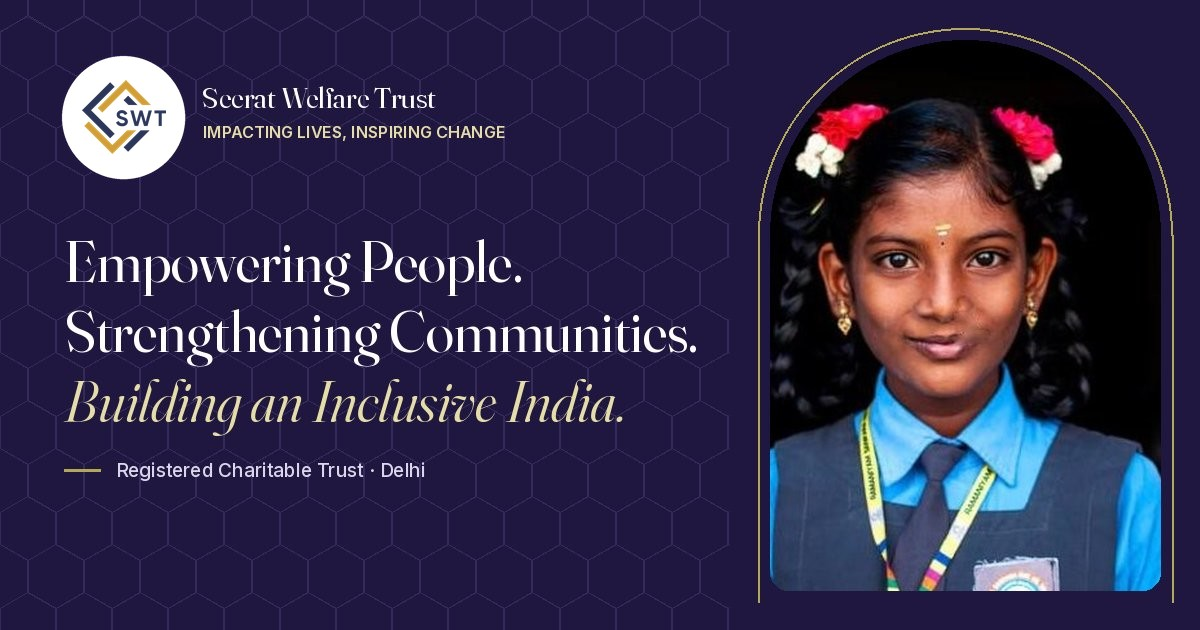
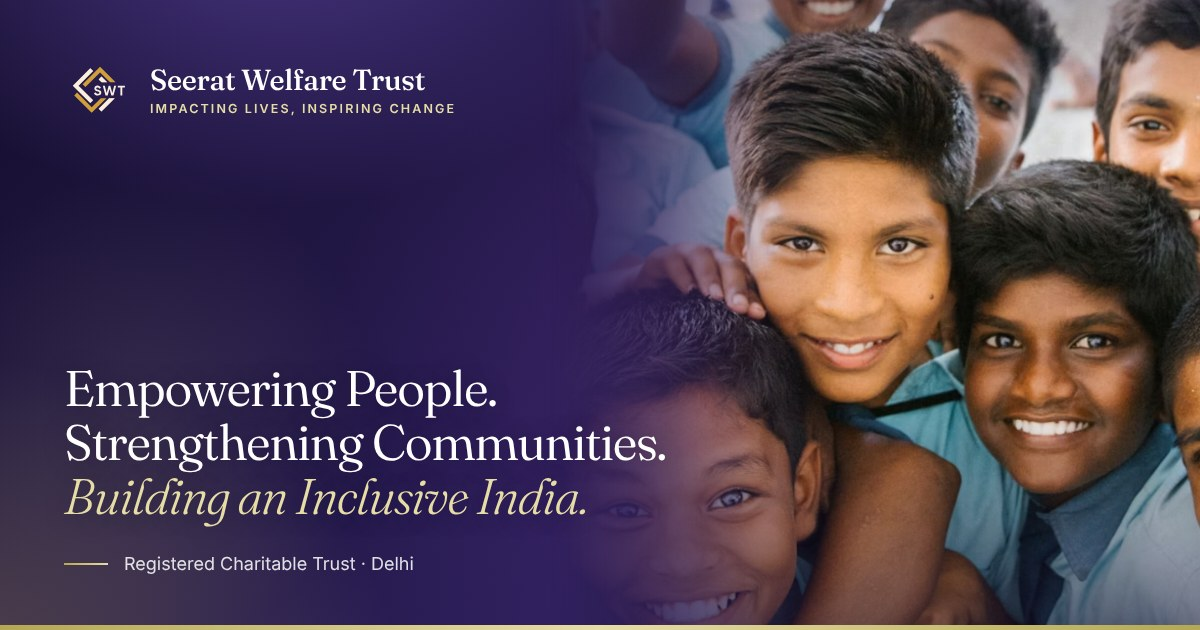
Redesign link-preview image with gradient background and students photo
New assets/og-image.jpg (1200x630): smooth layered indigo-violet gradient
with a soft gold glow, the homepage hero students photo blended in on the
right, new SWT logo, and the site headline. Bump the image URL version
so link-preview services fetch the new image.

Claude-Session: https://claude.ai/code/session_01VVF1uRwaVzpC7HF24bCT69

diff --git a/index.html b/index.html
@@ -12,7 +12,7 @@
 <meta property="og:title" content="Seerat Welfare Trust — Empowering People. Strengthening Communities.">
 <meta property="og:description" content="Seerat Welfare Trust is a registered charitable organisation in Delhi, advancing inclusive and sustainable community development.">
 <meta property="og:url" content="https://seerat.org.in/">
-<meta property="og:image" content="https://seerat.org.in/assets/og-image.jpg?v=2">
+<meta property="og:image" content="https://seerat.org.in/assets/og-image.jpg?v=3">
 <meta property="og:image:width" content="1200">
 <meta property="og:image:height" content="630">
 <meta property="og:image:alt" content="Seerat Welfare Trust: Empowering People. Strengthening Communities. Building an Inclusive India.">
@@ -20,7 +20,7 @@
 <meta name="twitter:card" content="summary_large_image">
 <meta name="twitter:title" content="Seerat Welfare Trust — Empowering People. Strengthening Communities.">
 <meta name="twitter:description" content="Seerat Welfare Trust is a registered charitable organisation in Delhi, advancing inclusive and sustainable community development.">
-<meta name="twitter:image" content="https://seerat.org.in/assets/og-image.jpg?v=2">
+<meta name="twitter:image" content="https://seerat.org.in/assets/og-image.jpg?v=3">
 <meta name="twitter:image:alt" content="Seerat Welfare Trust: Empowering People. Strengthening Communities. Building an Inclusive India.">
 <link rel="icon" href="assets/icons/favicon.ico?v=2" sizes="any">
 <link rel="icon" type="image/png" sizes="32x32" href="assets/icons/favicon-32.png?v=2">

diff --git a/focus-areas.html b/focus-areas.html
@@ -12,7 +12,7 @@
 <meta property="og:title" content="Our Focus Areas — Seerat Welfare Trust">
 <meta property="og:description" content="Six interconnected focus areas: education and digital empowerment, financial capability, women, skills and livelihoods, health, and environment.">
 <meta property="og:url" content="https://seerat.org.in/focus-areas.html">
-<meta property="og:image" content="https://seerat.org.in/assets/og-image.jpg?v=2">
+<meta property="og:image" content="https://seerat.org.in/assets/og-image.jpg?v=3">
 <meta property="og:image:width" content="1200">
 <meta property="og:image:height" content="630">
 <meta property="og:image:alt" content="Seerat Welfare Trust: Empowering People. Strengthening Communities. Building an Inclusive India.">
@@ -20,7 +20,7 @@
 <meta name="twitter:card" content="summary_large_image">
 <meta name="twitter:title" content="Our Focus Areas — Seerat Welfare Trust">
 <meta name="twitter:description" content="Six interconnected focus areas: education and digital empowerment, financial capability, women, skills and livelihoods, health, and environment.">
-<meta name="twitter:image" content="https://seerat.org.in/assets/og-image.jpg?v=2">
+<meta name="twitter:image" content="https://seerat.org.in/assets/og-image.jpg?v=3">
 <meta name="twitter:image:alt" content="Seerat Welfare Trust: Empowering People. Strengthening Communities. Building an Inclusive India.">
 <link rel="icon" href="assets/icons/favicon.ico?v=2" sizes="any">
 <link rel="icon" type="image/png" sizes="32x32" href="assets/icons/favicon-32.png?v=2">

diff --git a/about.html b/about.html
@@ -12,7 +12,7 @@
 <meta property="og:title" content="About Us — Seerat Welfare Trust">
 <meta property="og:description" content="Who we are, our story, why Seerat, our vision and mission, theory of change, commitment and founder’s message.">
 <meta property="og:url" content="https://seerat.org.in/about.html">
-<meta property="og:image" content="https://seerat.org.in/assets/og-image.jpg?v=2">
+<meta property="og:image" content="https://seerat.org.in/assets/og-image.jpg?v=3">
 <meta property="og:image:width" content="1200">
 <meta property="og:image:height" content="630">
 <meta property="og:image:alt" content="Seerat Welfare Trust: Empowering People. Strengthening Communities. Building an Inclusive India.">
@@ -20,7 +20,7 @@
 <meta name="twitter:card" content="summary_large_image">
 <meta name="twitter:title" content="About Us — Seerat Welfare Trust">
 <meta name="twitter:description" content="Who we are, our story, why Seerat, our vision and mission, theory of change, commitment and founder’s message.">
-<meta name="twitter:image" content="https://seerat.org.in/assets/og-image.jpg?v=2">
+<meta name="twitter:image" content="https://seerat.org.in/assets/og-image.jpg?v=3">
 <meta name="twitter:image:alt" content="Seerat Welfare Trust: Empowering People. Strengthening Communities. Building an Inclusive India.">
 <link rel="icon" href="assets/icons/favicon.ico?v=2" sizes="any">
 <link rel="icon" type="image/png" sizes="32x32" href="assets/icons/favicon-32.png?v=2">

diff --git a/privacy.html b/privacy.html
@@ -13,7 +13,7 @@
 <meta property="og:title" content="Privacy Notice — Seerat Welfare Trust">
 <meta property="og:description" content="How Seerat Welfare Trust collects and uses the information you share through the website enquiry form.">
 <meta property="og:url" content="https://seerat.org.in/privacy.html">
-<meta property="og:image" content="https://seerat.org.in/assets/og-image.jpg?v=2">
+<meta property="og:image" content="https://seerat.org.in/assets/og-image.jpg?v=3">
 <meta property="og:image:width" content="1200">
 <meta property="og:image:height" content="630">
 <meta property="og:image:alt" content="Seerat Welfare Trust: Empowering People. Strengthening Communities. Building an Inclusive India.">
@@ -21,7 +21,7 @@
 <meta name="twitter:card" content="summary_large_image">
 <meta name="twitter:title" content="Privacy Notice — Seerat Welfare Trust">
 <meta name="twitter:description" content="How Seerat Welfare Trust collects and uses the information you share through the website enquiry form.">
-<meta name="twitter:image" content="https://seerat.org.in/assets/og-image.jpg?v=2">
+<meta name="twitter:image" content="https://seerat.org.in/assets/og-image.jpg?v=3">
 <meta name="twitter:image:alt" content="Seerat Welfare Trust: Empowering People. Strengthening Communities. Building an Inclusive India.">
 <link rel="icon" href="assets/icons/favicon.ico?v=2" sizes="any">
 <link rel="icon" type="image/png" sizes="32x32" href="assets/icons/favicon-32.png?v=2">

diff --git a/leadership.html b/leadership.html
@@ -12,7 +12,7 @@
 <meta property="og:title" content="Our Leadership — Seerat Welfare Trust">
 <meta property="og:description" content="Meet the founders of Seerat Welfare Trust: experienced professionals with a shared purpose.">
 <meta property="og:url" content="https://seerat.org.in/leadership.html">
-<meta property="og:image" content="https://seerat.org.in/assets/og-image.jpg?v=2">
+<meta property="og:image" content="https://seerat.org.in/assets/og-image.jpg?v=3">
 <meta property="og:image:width" content="1200">
 <meta property="og:image:height" content="630">
 <meta property="og:image:alt" content="Seerat Welfare Trust: Empowering People. Strengthening Communities. Building an Inclusive India.">
@@ -20,7 +20,7 @@
 <meta name="twitter:card" content="summary_large_image">
 <meta name="twitter:title" content="Our Leadership — Seerat Welfare Trust">
 <meta name="twitter:description" content="Meet the founders of Seerat Welfare Trust: experienced professionals with a shared purpose.">
-<meta name="twitter:image" content="https://seerat.org.in/assets/og-image.jpg?v=2">
+<meta name="twitter:image" content="https://seerat.org.in/assets/og-image.jpg?v=3">
 <meta name="twitter:image:alt" content="Seerat Welfare Trust: Empowering People. Strengthening Communities. Building an Inclusive India.">
 <link rel="icon" href="assets/icons/favicon.ico?v=2" sizes="any">
 <link rel="icon" type="image/png" sizes="32x32" href="assets/icons/favicon-32.png?v=2">

diff --git a/404.html b/404.html
@@ -13,7 +13,7 @@
 <meta property="og:title" content="Page Not Found — Seerat Welfare Trust">
 <meta property="og:description" content="The page you were looking for could not be found.">
 <meta property="og:url" content="https://seerat.org.in/404.html">
-<meta property="og:image" content="https://seerat.org.in/assets/og-image.jpg?v=2">
+<meta property="og:image" content="https://seerat.org.in/assets/og-image.jpg?v=3">
 <meta property="og:image:width" content="1200">
 <meta property="og:image:height" content="630">
 <meta property="og:image:alt" content="Seerat Welfare Trust: Empowering People. Strengthening Communities. Building an Inclusive India.">
@@ -21,7 +21,7 @@
 <meta name="twitter:card" content="summary_large_image">
 <meta name="twitter:title" content="Page Not Found — Seerat Welfare Trust">
 <meta name="twitter:description" content="The page you were looking for could not be found.">
-<meta name="twitter:image" content="https://seerat.org.in/assets/og-image.jpg?v=2">
+<meta name="twitter:image" content="https://seerat.org.in/assets/og-image.jpg?v=3">
 <meta name="twitter:image:alt" content="Seerat Welfare Trust: Empowering People. Strengthening Communities. Building an Inclusive India.">
 <link rel="icon" href="assets/icons/favicon.ico?v=2" sizes="any">
 <link rel="icon" type="image/png" sizes="32x32" href="assets/icons/favicon-32.png?v=2">
